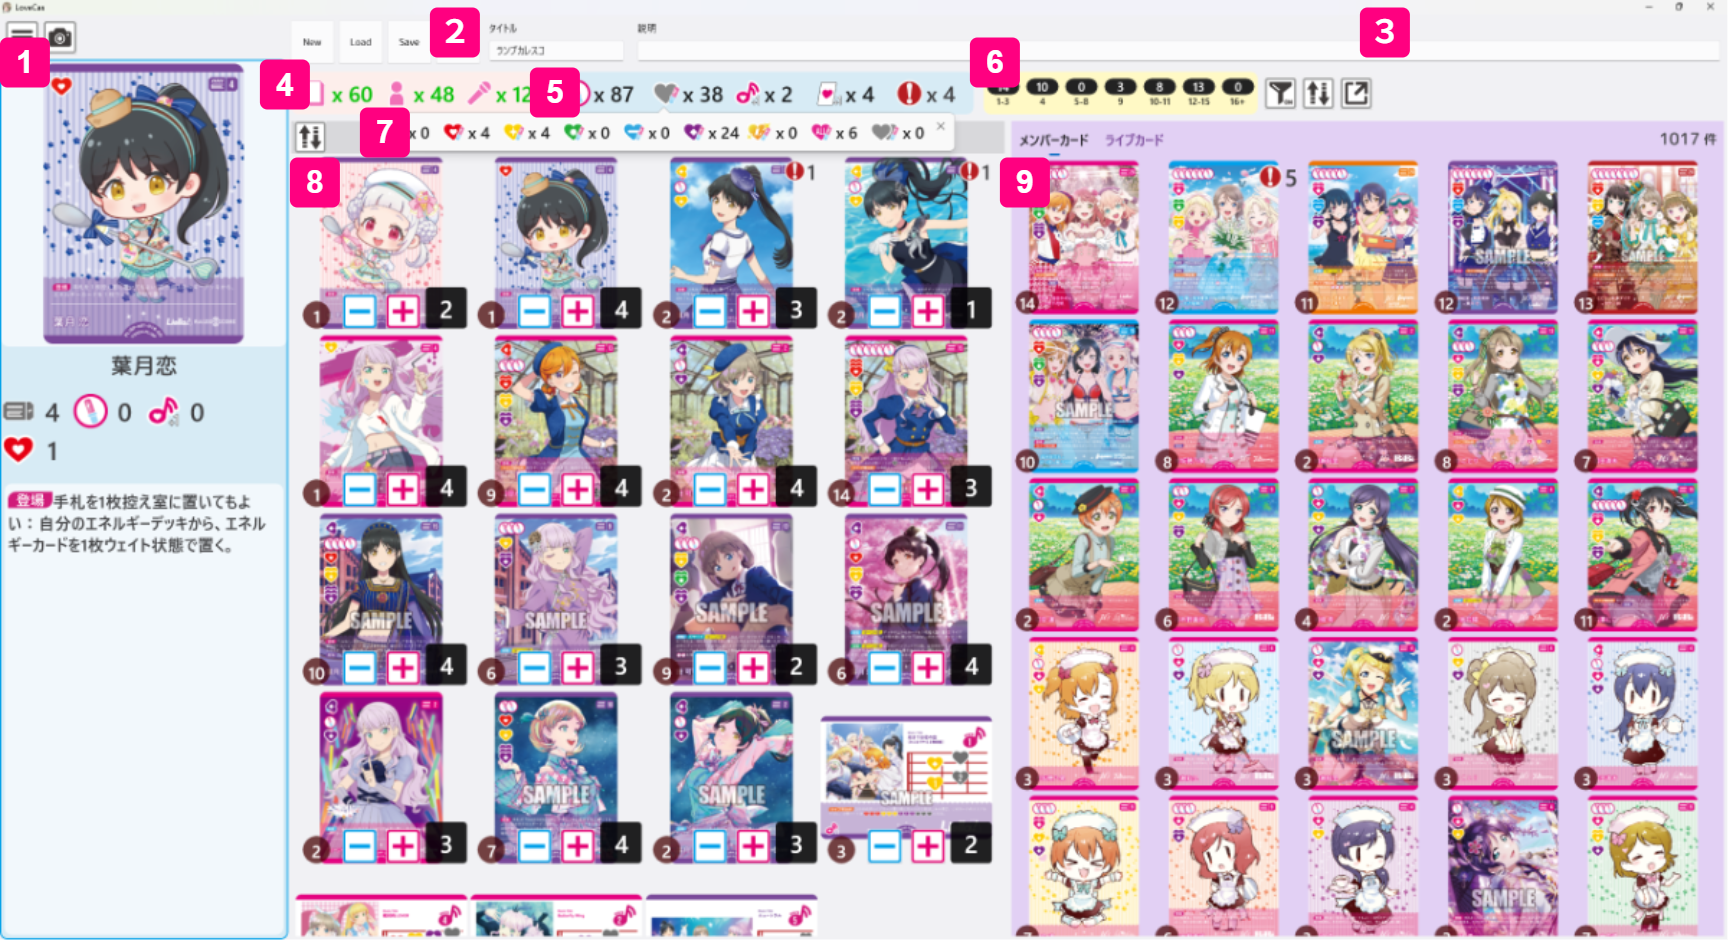
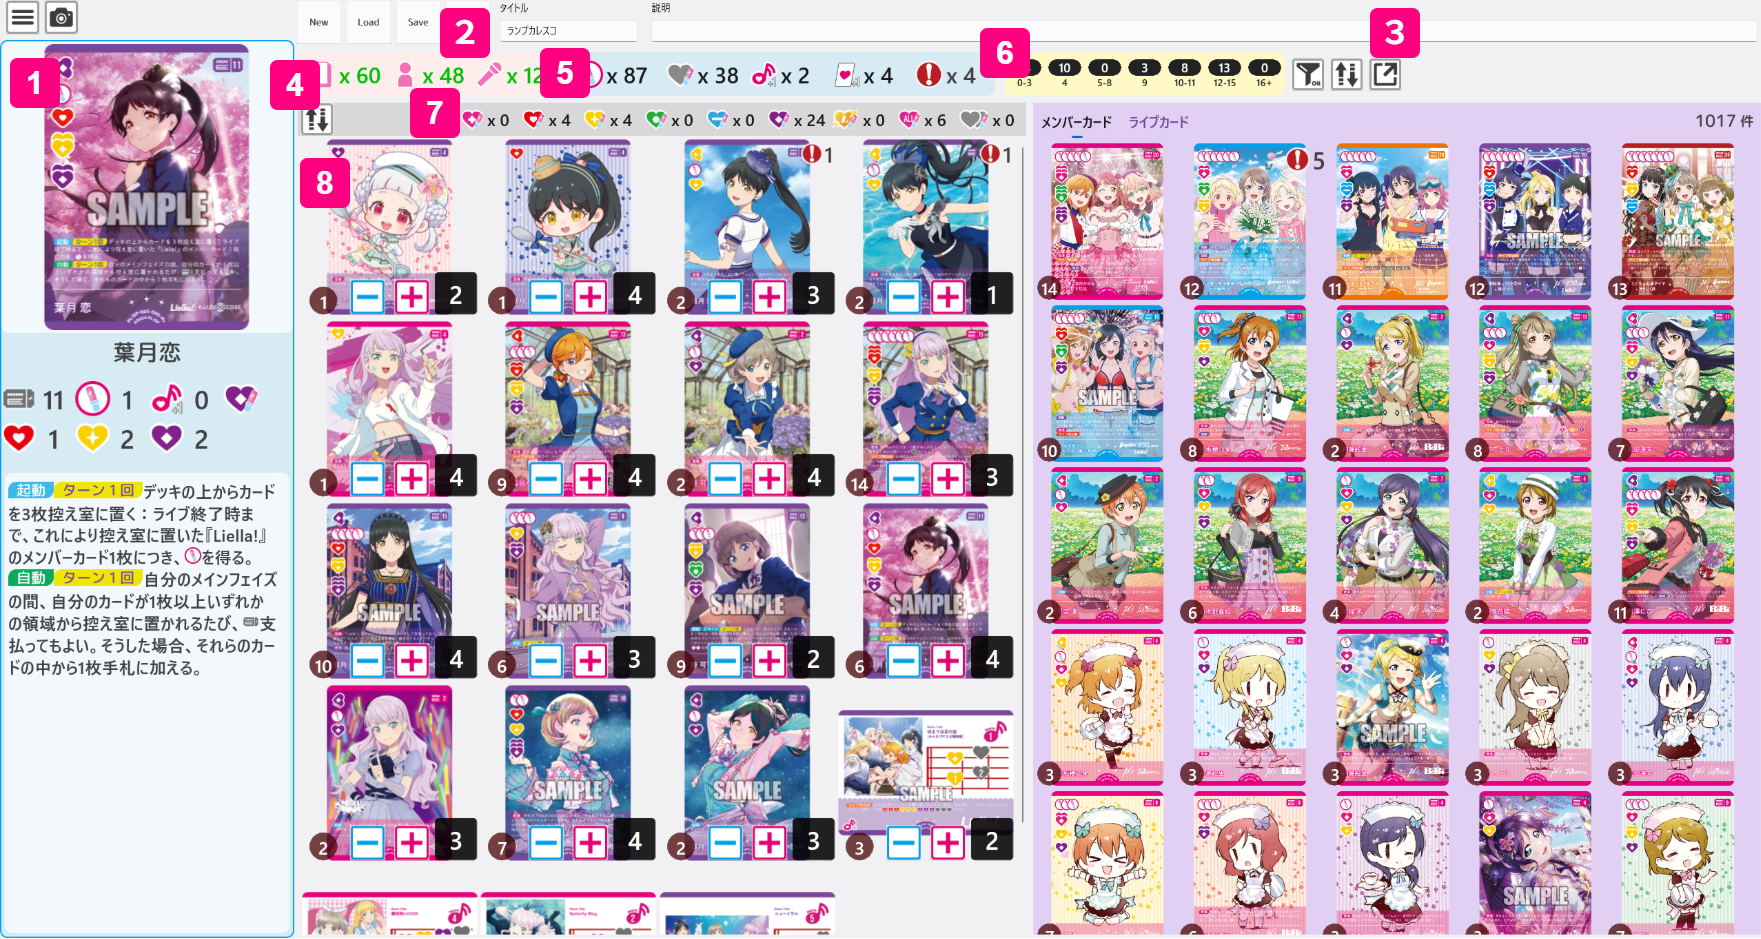
bp8向けの更新 (#13)

diff --git a/docs/Usage.md b/docs/Usage.md
@@ -34,7 +34,7 @@
 2. ライブの準備  
    最初の手札やエネルギーが準備される
     1. マリガンを行う。不要な手札を控え室に置き、その枚数分デッキをクリックしてドローする。
-    2. Nextボタンを押す。控え室のカードがデッキに加わり、1ターン目に移行する。
+    2. Nextボタンを押す。控え室のカードがデッキに加わってシャッフルされ、1ターン目に移行する。
 3. 通常フェイズ
     1. アクティブフェイズ、エネルギーフェイズ、ドローフェイズが自動で行われる。
     2. 通常フェイズを行う。エネルギーマークをクリックしてエネルギーを使用し、カードをプレイする。この時点でライブカードも出せる(必要なハートの数の参考になる)
@@ -64,6 +64,8 @@
 |シミュレーションへ|プレイ画面へ移動する。|
 |初期化|シミュレーションを初期化し、トップを表示する。|
 |デッキ読み取り|デッキを読み取り、シミュレーションを開始する。|
+|スナップショット保存|現在の盤面(ターン・フェイズ、各領域のカード、ステータスなど)をファイルに保存する。<br>保存するファイル名の初期値は snapshot_(yyyyMMdd_HHmmss).json|
+|スナップショット読み取り|保存したスナップショットのファイルを選択し、盤面を復元する。|
 |スタッツ表示|デッキ編成画面でのスタッツの表示/非表示を切り替える。設定は保存される。<br>メンバー: ハートとブレードの合計。ライブ: 必要ハートの合計。|
 |文字サイズ|詳細パネルの効果テキストの文字サイズを変更する。設定は保存される。<br>設定値は小/中/大|
 |ライセンス|アプリとライセンス情報を表示する。|
@@ -120,7 +122,7 @@
 |デッキトップエリア|![](images/area_top.png)|カードをここへドラッグ&ドロップすると、そのカードはメインデッキの1番上に置かれる。|
 |デッキボトムエリア|![](images/area_bottom.png)|カードをここへドラッグ&ドロップすると、そのカードはメインデッキの1番下に置かれる。|
 |シャッフルボタン|![](images/button_shuffle.png)|メインデッキをシャッフルする。|
-|リフレッシュボタン|![](images/button_refresh.png)|リフレッシュを行う。<br>控え室のカードはすべてメインデッキに加わり、シャッフルされる。|
+|リフレッシュボタン|![](images/button_refresh.png)|リフレッシュを行う。<br>控え室のカードはすべてシャッフルされ、メインデッキの一番下に置かれる。|
 |エネルギー(−)ボタン|![](images/button_minus_square.png)|エネルギーの数を1減少させる。|
 |エネルギー(＋)ボタン|![](images/button_plus_square.png)|エネルギーをウェイト状態で1増加させる。|
 |エネルギー(ロック＋)ボタン|![](images/button_plus_lock.png)|エネルギーの数をウェイト状態で1増加させる。<br>このエネルギーは次のアクティブフェイズにアクティブにならない。|
@@ -203,8 +205,8 @@
 |3|コメント|デッキにつける説明。|
 |4|枚数表示|現在のデッキの総枚数とメンバーカード、ライブカードの枚数。|
 |5|集計表示|現在のデッキのブレード数合計、ブレードハート(ハート、スコア、ドロー)を持つカードの枚数とラブカポイントシステムの現在の合計値。|
-|6|コスト毎の枚数|各コスト帯毎の採用枚数。|
-|7|ブレードハートの色毎の枚数|ブレードハートを持つカードの採用枚数。<br>集計表示のブレードハートアイコンをクリックすると表示される。|
+|6|コスト毎の枚数|各コスト帯毎の採用枚数。<br>コスト0のメンバーは0-3に含まれる。|
+|7|ブレードハートの色毎の枚数|ブレードハートを持つカードの色毎の採用枚数。<br>常に表示される。|
 |8|デッキエリア|デッキのカード一覧。右下は枚数。0枚になるとデッキから取り除かれる。|
 |9|ライブラリエリア|カード一覧。メンバーカードとライブカードはタブで切り替えて表示できる。<br>カードをデッキの方にドラッグすると追加できる。|
 |10|スタッツ|そのカードのスタッツ(メンバー:ハートとブレードの合計/ライブ:必要ハートの合計)。<br>表示設定されているときのみ表示される。|
@@ -282,6 +284,11 @@
 
 カメラボタンでのキャプチャ画像が保存されるフォルダ。  
 ファイル名は日時: (yyyyMMdd_HHmmss).png
+
+**%ドキュメント%¥LoveCas¥Snapshot¥**
+
+スナップショット(盤面)を保存する際のデフォルトフォルダ。  
+ファイル名の初期値は日時: snapshot_(yyyyMMdd_HHmmss).json
 
 **%ドキュメント%¥LoveCas¥Settings¥**
 

diff --git a/History.md b/History.md
@@ -1,5 +1,17 @@
 # 更新履歴
 
+## 1.3.2314.0
+
+- [Updated] 「ブースターパック まじかる♡とり～と」のカードを追加
+- [Updated] 2026/11までのPRカードを追加
+- [Changed] **盤面のスナップショット保存・読み取り機能を追加**（メニューから実行）
+- [Changed] リフレッシュをルールに沿って控え室のカードをシャッフルしてデッキの下に置く挙動に変更
+    - これに伴いマリガン時にリフレッシュ後デッキをシャッフルするように変更
+- [Changed] デッキ編成画面でコスト0のメンバーのフィルター・表示に対応
+- [Changed] デッキ編成画面のブレードハートの色毎の表示を常時表示に変更
+- [Fixed] メンバーがいるステージにライブカードを移動するとメンバーが重複する不具合を修正
+- [Fixed] 詳細パネルの収録表示がされない場合がある問題を修正
+
 ## 1.3.2203.1
 
 - [Updated] 「コレクション クリアポケット ラブライブ！サンシャイン!!」のカードを追加
